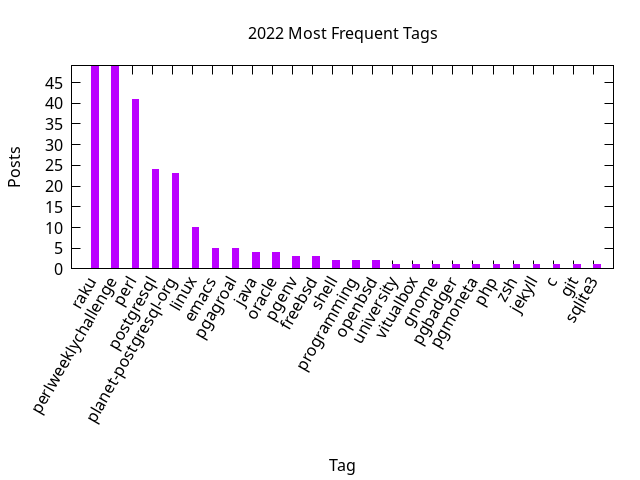
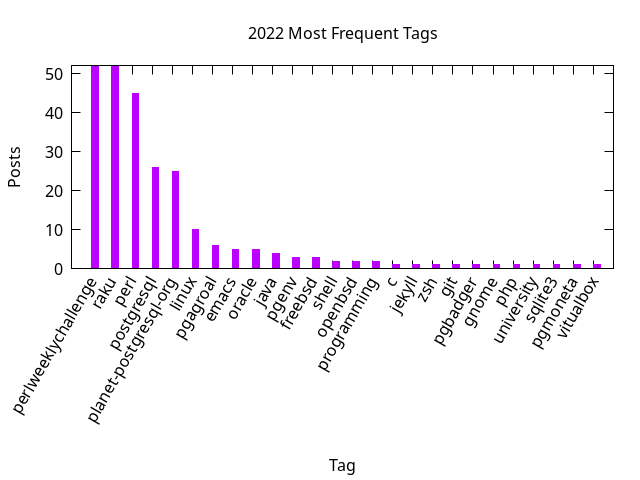
Stats update

diff --git a/_includes/stats/2022.md b/_includes/stats/2022.md
@@ -1,36 +1,36 @@
 <a name="2022" />
 ## 2022 (work in progress)
 
-**93 total posts** have been written on 2022.
+**99 total posts** have been written on 2022.
 There have been *26 different tags* used, the most
 popular being (sorted by number of posts):
  
-- *raku* (49 posts)  
-- *perlweeklychallenge* (49 posts)  
-- *perl* (41 posts)  
-- *postgresql* (24 posts)  
-- *planet-postgresql-org* (23 posts)  
+- *perlweeklychallenge* (52 posts)  
+- *raku* (52 posts)  
+- *perl* (45 posts)  
+- *postgresql* (26 posts)  
+- *planet-postgresql-org* (25 posts)  
 - *linux* (10 posts)  
+- *pgagroal* (6 posts)  
 - *emacs* (5 posts)  
-- *pgagroal* (5 posts)  
+- *oracle* (5 posts)  
 - *java* (4 posts)  
-- *oracle* (4 posts)  
 - *pgenv* (3 posts)  
 - *freebsd* (3 posts)  
 - *shell* (2 posts)  
-- *programming* (2 posts)  
 - *openbsd* (2 posts)  
-- *university* (1 posts)  
-- *vitualbox* (1 posts)  
-- *gnome* (1 posts)  
-- *pgbadger* (1 posts)  
-- *pgmoneta* (1 posts)  
-- *php* (1 posts)  
-- *zsh* (1 posts)  
-- *jekyll* (1 posts)  
+- *programming* (2 posts)  
 - *c* (1 posts)  
+- *jekyll* (1 posts)  
+- *zsh* (1 posts)  
 - *git* (1 posts)  
-- *sqlite3* (1 posts).<br/>
+- *pgbadger* (1 posts)  
+- *gnome* (1 posts)  
+- *php* (1 posts)  
+- *university* (1 posts)  
+- *sqlite3* (1 posts)  
+- *pgmoneta* (1 posts)  
+- *vitualbox* (1 posts).<br/>
 <br/>
 The following is the overall 2022 post ratio by month:
 <br/>
@@ -49,7 +49,7 @@ The following is the overall 2022 post ratio by tag (showing max 30 tags):
 
 <div align="right">
 <small>
-Last generated on 2022-11-28 at 13:20
+Last generated on 2022-12-19 at 15:10
 </small>
 </div>
 
